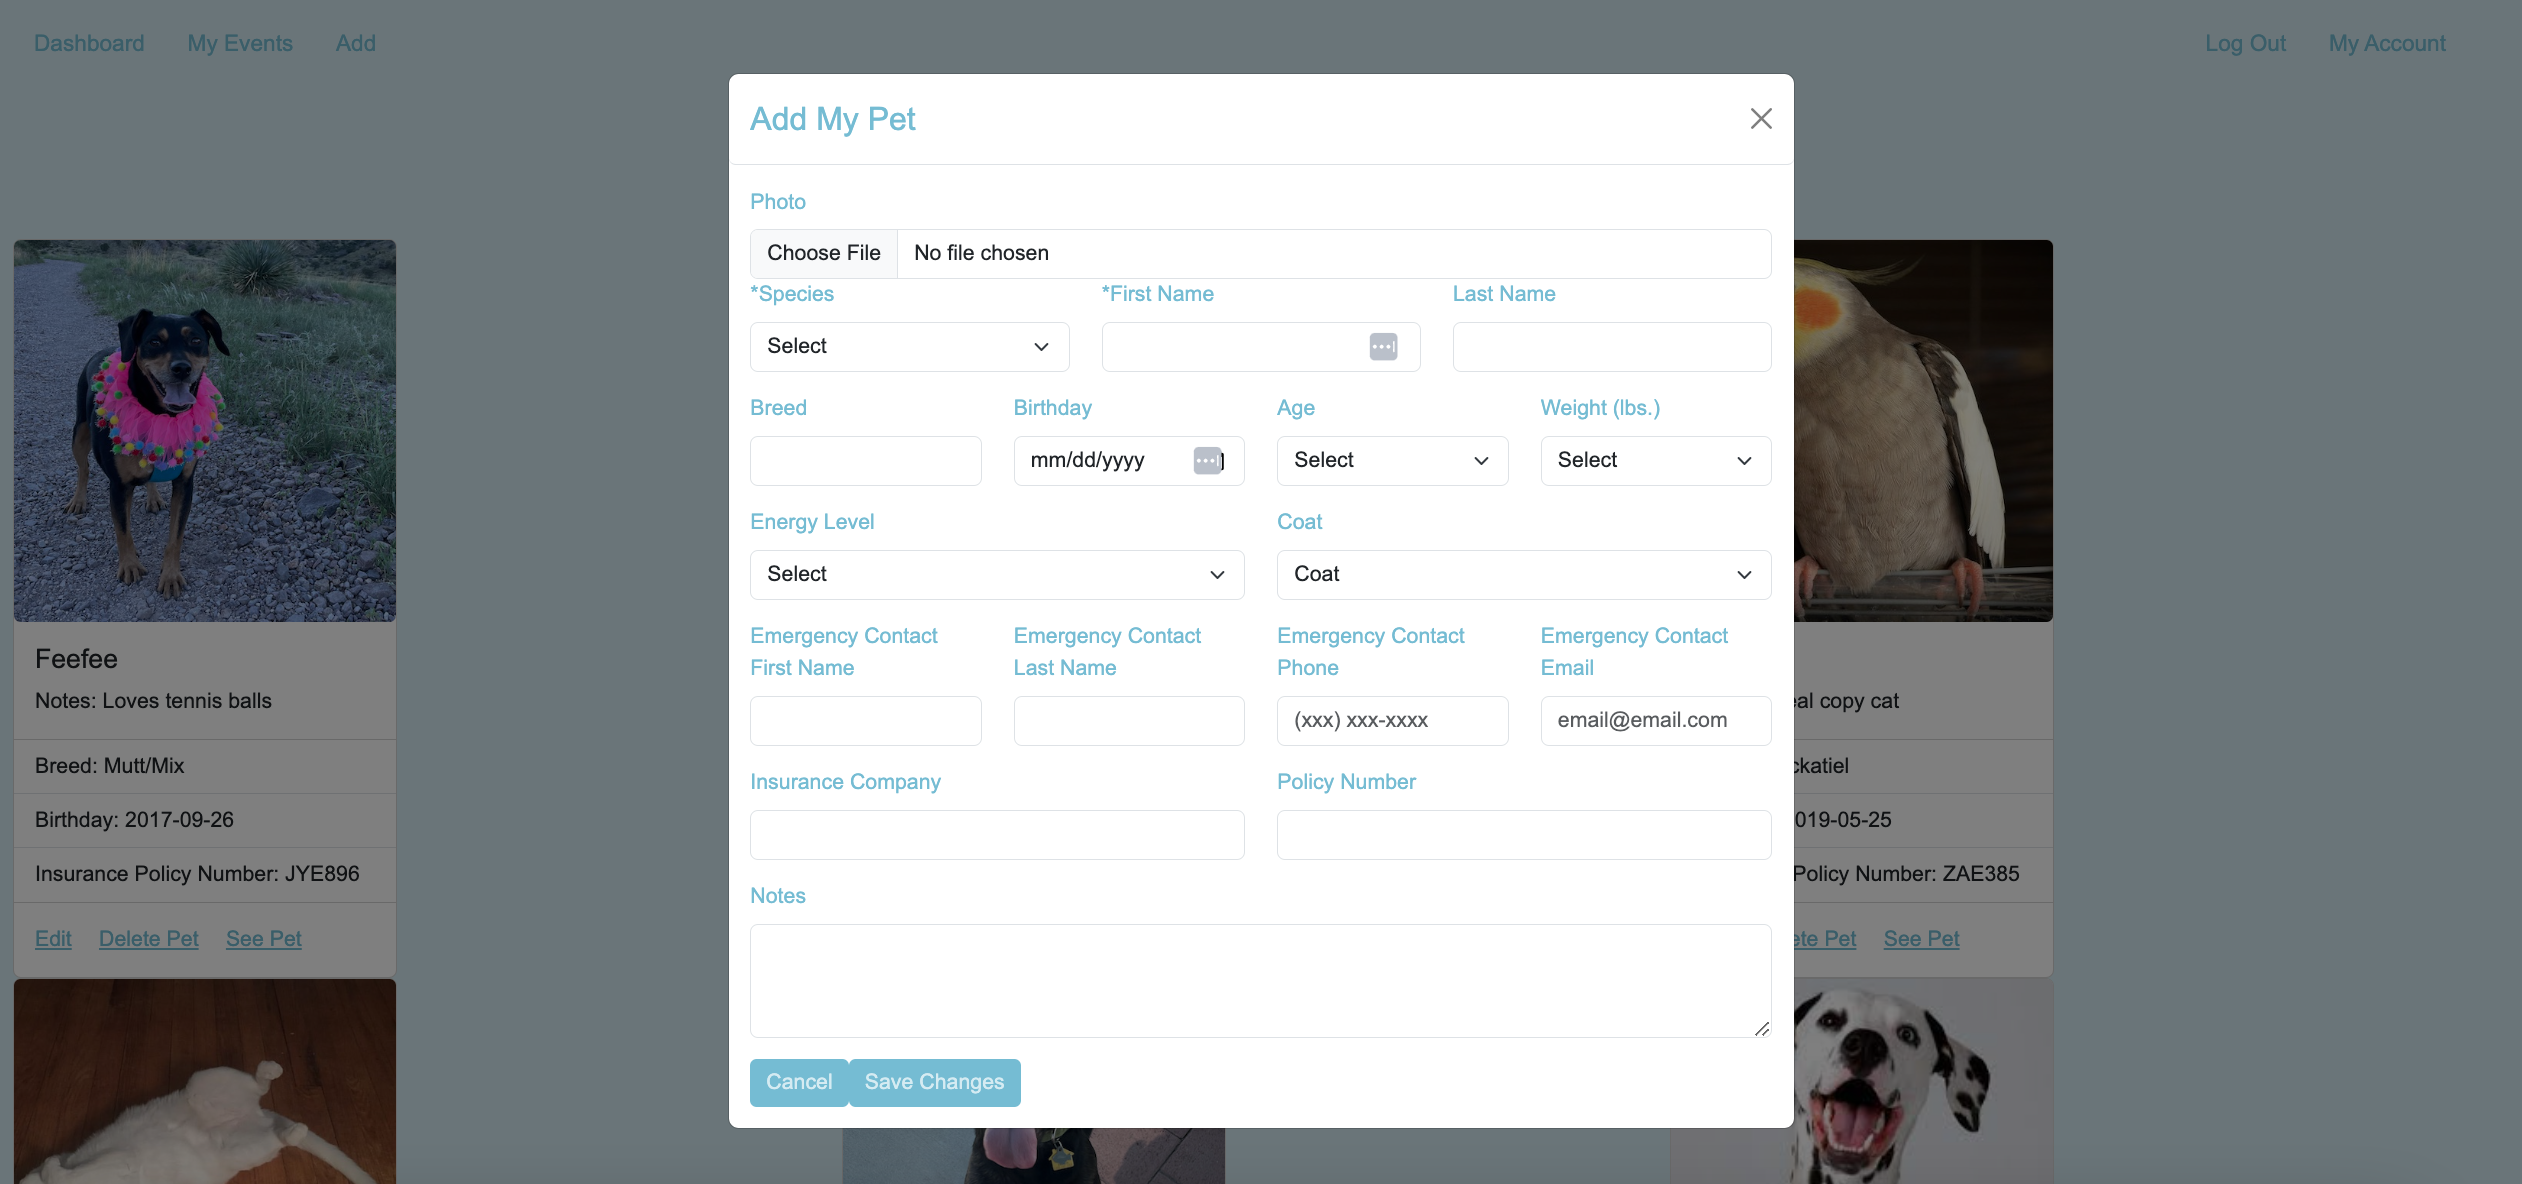
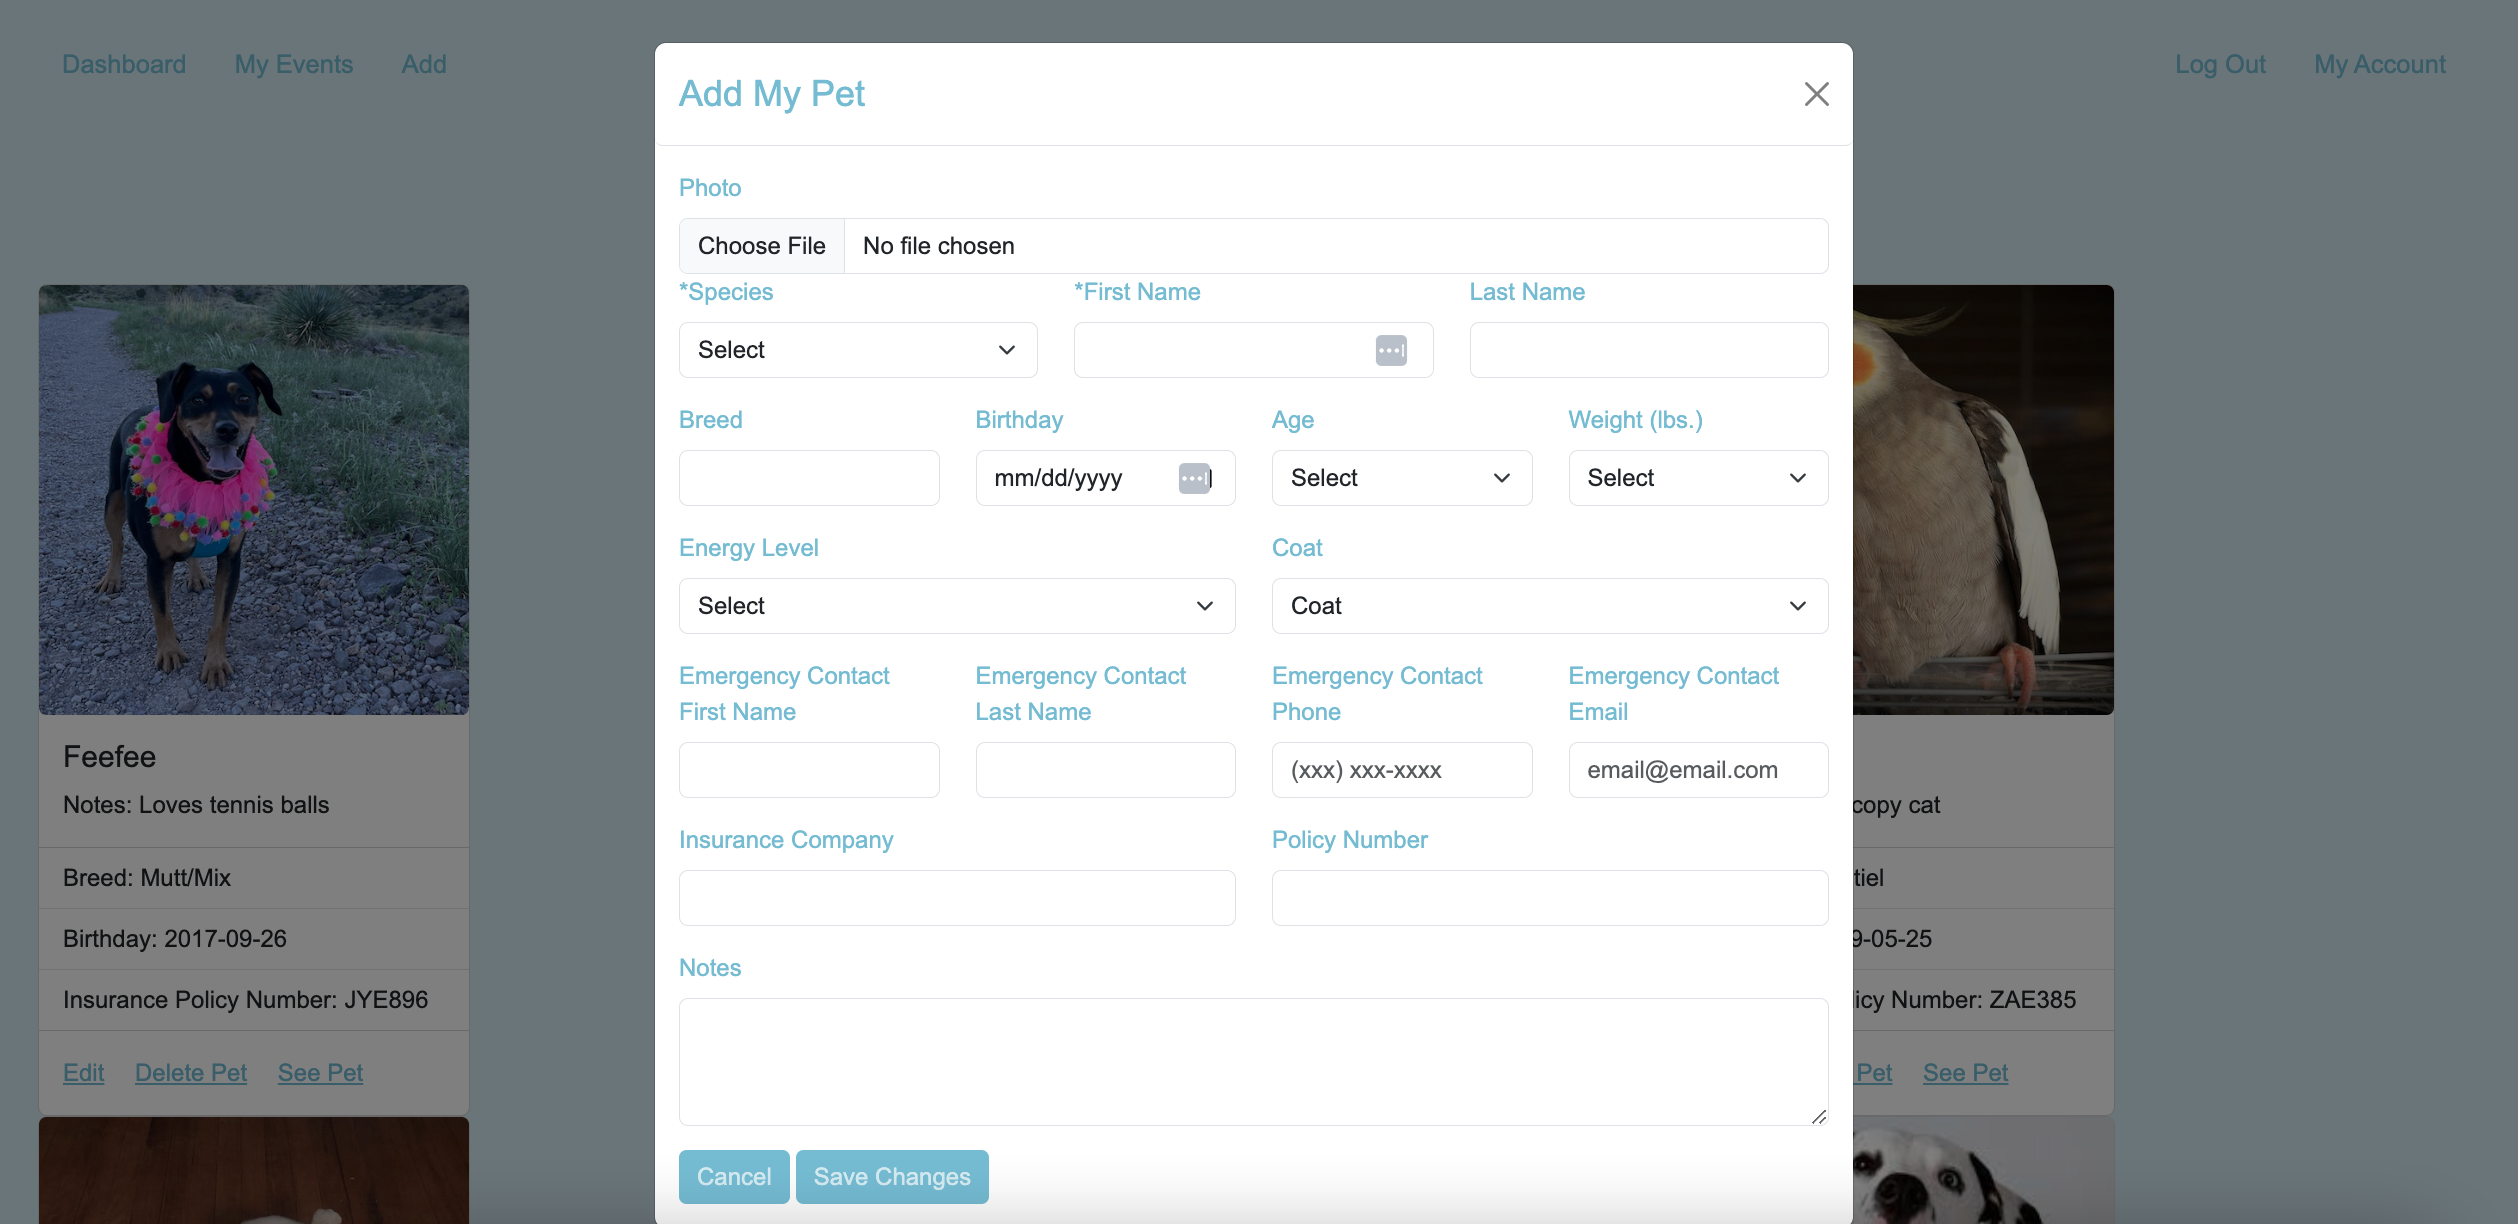
Added spacing between buttons on other two modals, updated images in README

diff --git a/static/js/add.jsx b/static/js/add.jsx
@@ -770,7 +770,7 @@ function AddSpecialistModal(props) {
                 Cancel
               </Button>
 
-              <Button className='LW-modal-btn' variant="primary" type="submit" onClick={handleAddASpecialistFormSubmit}>
+              <Button className='LW-modal-btn ms-1' variant="primary" type="submit" onClick={handleAddASpecialistFormSubmit}>
                 Save Changes
               </Button>
           </Form>
@@ -1005,7 +1005,7 @@ function AddEventModal(props) {
                 Cancel
               </Button>
 
-              <Button className='LW-modal-btn' variant="primary" onClick={handleAddEventModal} type="submit">
+              <Button className='LW-modal-btn ms-1' variant="primary" onClick={handleAddEventModal} type="submit">
                 Save Changes
               </Button>
           </Form>
